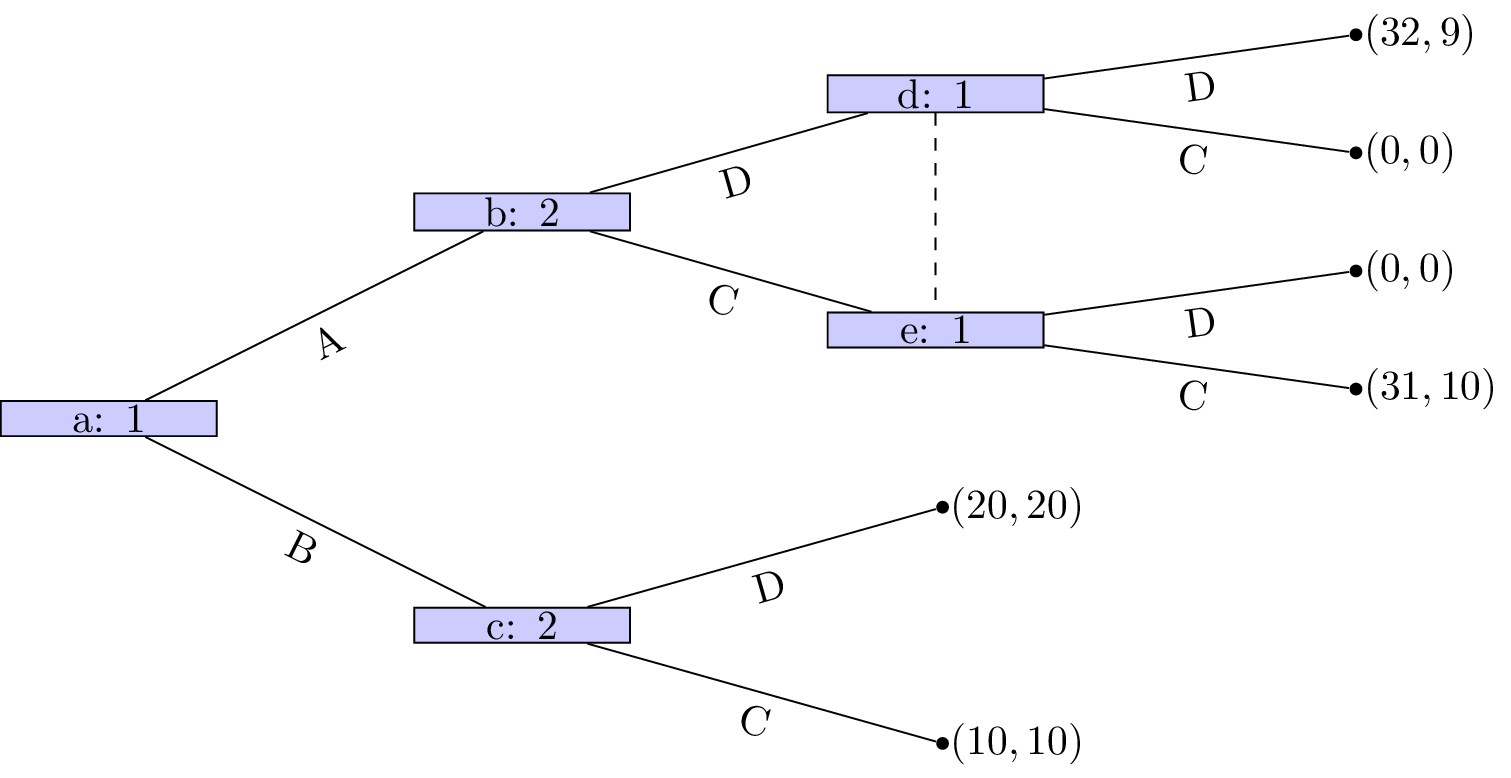
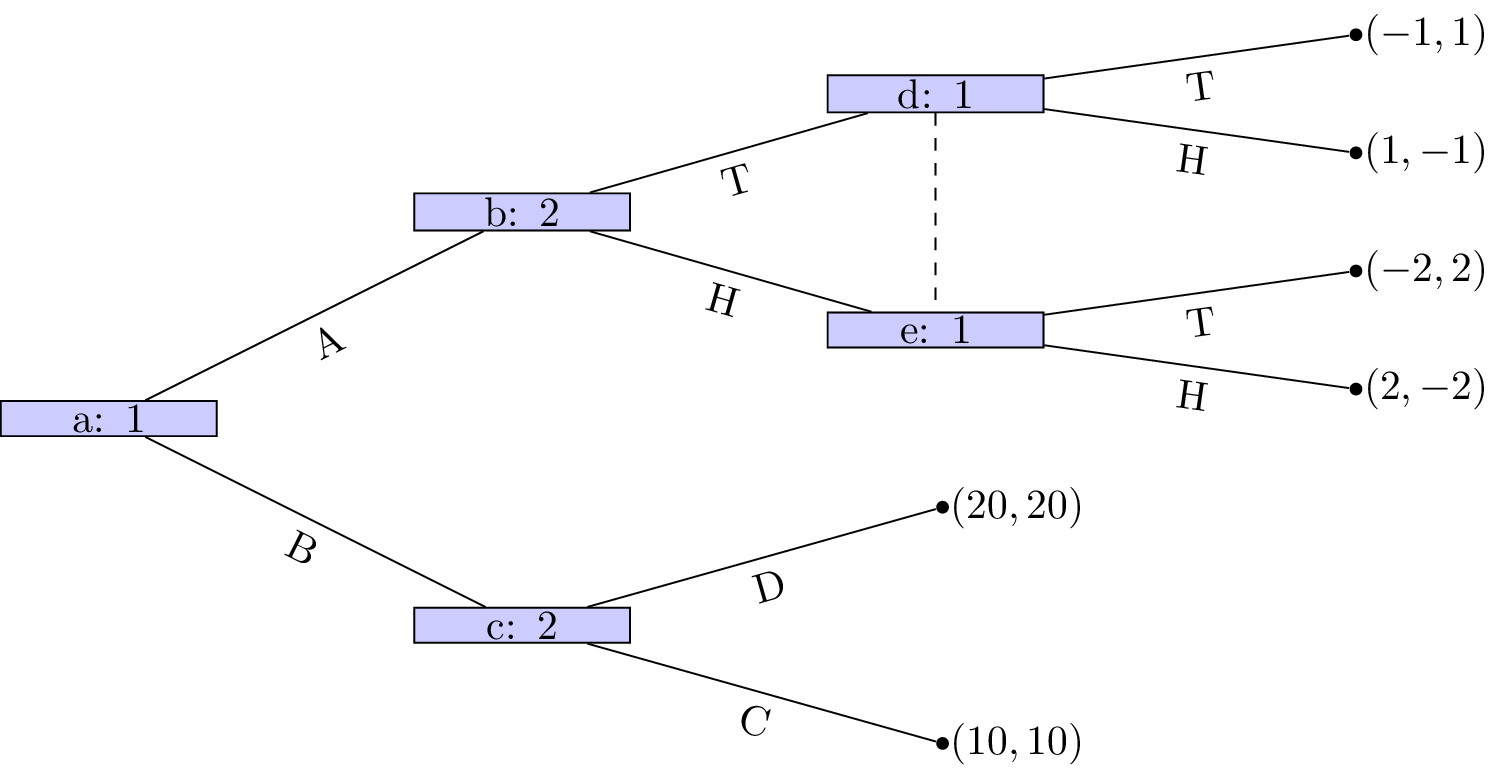
Updated exercise

diff --git a/Homework/images/E03-img07.tex b/Homework/images/E03-img07.tex
@@ -14,13 +14,13 @@
                 child {node[end] {} node[right] {$(20,20)$} edge from parent node[below] {D}} edge from parent node[below] {B}}
         child {node[player] {b: 2}
                 child {node (E) [player] {e: 1}
-                    child {node[end] {} node [right] {$(31,10)$} edge from parent node[below] {C}}
-                    child {node[end] {} node [right] {$(0,0)$} edge from parent node[below] {D}}
-                        edge from parent node[below] {C}}
+                    child {node[end] {} node [right] {$(2,-2)$} edge from parent node[below] {H}}
+                    child {node[end] {} node [right] {$(-2,2)$} edge from parent node[below] {T}}
+                        edge from parent node[below] {H}}
                 child {node (D) [player] {d: 1}
-                    child{node[end] {} node [right] {$(0,0)$} edge from parent node[below] {C}}
-                    child{node[end] {} node [right] {$(32,9)$} edge from parent node[below] {D}}
-                edge from parent node[below] {D}}
+                    child{node[end] {} node [right] {$(1,-1)$} edge from parent node[below] {H}}
+                    child{node[end] {} node [right] {$(-1,1)$} edge from parent node[below] {T}}
+                edge from parent node[below] {T}}
         edge from parent node[below] {A}
 };
             \draw [dashed] (D) -- (E);
